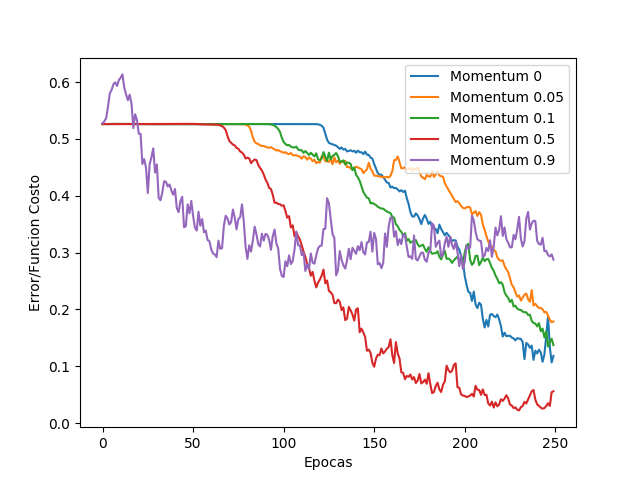
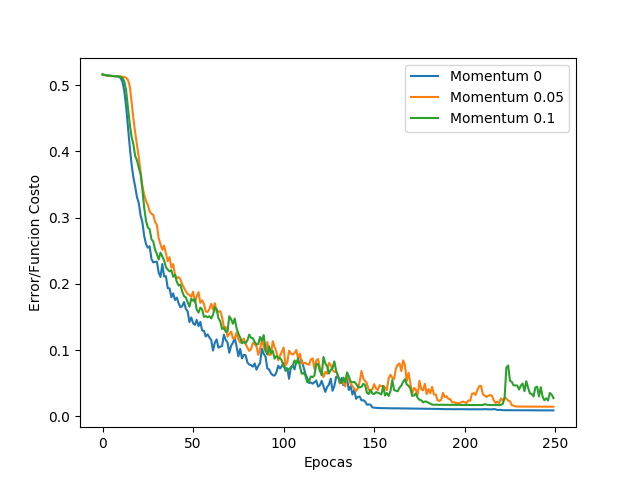
Termina de meter experimentos de eta y momentum

diff --git a/informe/resultados.tex b/informe/resultados.tex
@@ -377,13 +377,13 @@ entrenamiento estocástico.
 \centering
 \begin{subfigure}{.5\textwidth}
   \centering
-  \includegraphics[width=1\linewidth]{graficos/eta_x_momentum_promedios_entrenamiento__0.png}
+  \includegraphics[width=1\linewidth]{graficos/eta_x_momentum_promedios_entrenamiento_0_08.png}
   \caption{Evolución del error de entrenamiento con momentum variable y learning rate fijo 0.08}
   \label{fig:sub1}
 \end{subfigure}%
 \begin{subfigure}{.5\textwidth}
   \centering
-  \includegraphics[width=1\linewidth]{graficos/eta_x_momentum_promedios_validacion__0.png}
+  \includegraphics[width=1\linewidth]{graficos/eta_x_momentum_promedios_validacion_0_08.png}
   \caption{Evolución del error de validación con momentum variable y learning rate fijo 0.08}
   \label{fig:sub2}
 \end{subfigure}
@@ -393,13 +393,13 @@ entrenamiento estocástico.
 \centering
 \begin{subfigure}{.5\textwidth}
   \centering
-  \includegraphics[width=1\linewidth]{graficos/eta_x_momentum_promedios_entrenamiento__1.png}
+  \includegraphics[width=1\linewidth]{graficos/eta_x_momentum_promedios_entrenamiento_0_15.png}
   \caption{Evolución del error de entrenamiento con momentum variable y learning rate fijo 0.15}
   \label{fig:sub1}
 \end{subfigure}%
 \begin{subfigure}{.5\textwidth}
   \centering
-  \includegraphics[width=1\linewidth]{graficos/eta_x_momentum_promedios_validacion__1.png}
+  \includegraphics[width=1\linewidth]{graficos/eta_x_momentum_promedios_validacion_0_15.png}
   \caption{Evolución del error de validación con momentum variable y learning rate fijo 0.15}
   \label{fig:sub2}
 \end{subfigure}
@@ -409,13 +409,13 @@ entrenamiento estocástico.
 \centering
 \begin{subfigure}{.5\textwidth}
   \centering
-  \includegraphics[width=1\linewidth]{graficos/eta_x_momentum_promedios_entrenamiento__2.png}
+  \includegraphics[width=1\linewidth]{graficos/eta_x_momentum_promedios_entrenamiento_0_2.png}
   \caption{Evolución del error de entrenamiento con momentum variable y learning rate fijo 0.2}
   \label{fig:sub1}
 \end{subfigure}%
 \begin{subfigure}{.5\textwidth}
   \centering
-  \includegraphics[width=1\linewidth]{graficos/eta_x_momentum_promedios_validacion__2.png}
+  \includegraphics[width=1\linewidth]{graficos/eta_x_momentum_promedios_validacion_0_2.png}
   \caption{Evolución del error de validación con momentum variable y learning rate fijo 0.2}
   \label{fig:sub2}
 \end{subfigure}
@@ -424,7 +424,44 @@ entrenamiento estocástico.
 Como se puede observar, los mejores resultados siguen siendo usando un learning rate de \textbf{0.1 y de 0.05}. Más interesante todavía es que en 
 anteriores experimentos con el momentum y un learning rate de \textbf{0.05} habíamos visto que el momentum en \textbf{0} era la mejor opción. Sin embargo,
  en estos nuevos resultados se puede ver que usar momentum \textbf{0.1} es mejor que \textbf{0} tanto para el learning rate de \textbf{0.1 y de 0.05}. 
- Esto puede deberse a como se armaron los conjuntos de entrenamiento y validación.
+ Esto puede deberse a como se armaron los conjuntos de entrenamiento y validación, y para confirmarlo, volveremos a correr las pruebas para \textbf{0.1 y de 0.05}
+ y compararlas.
+
+\begin{figure}[!htbp]
+\centering
+\begin{subfigure}{.5\textwidth}
+  \centering
+  \includegraphics[width=1\linewidth]{graficos/eta_x_momentum_promedios_entrenamiento__0.png}
+  \caption{Evolución del error de entrenamiento con momentum variable y learning rate fijo 0.05 (segunda vuelta)}
+  \label{fig:sub1}
+\end{subfigure}%
+\begin{subfigure}{.5\textwidth}
+  \centering
+  \includegraphics[width=1\linewidth]{graficos/eta_x_momentum_promedios_entrenamiento__2.png}
+  \caption{Evolución del error de entrenamiento con momentum variable y learning rate fijo 0.1 (segunda vuelta)}
+  \label{fig:sub2}
+\end{subfigure}
+\end{figure}
+
+\begin{figure}[!htbp]
+\centering
+\begin{subfigure}{.5\textwidth}
+  \centering
+  \includegraphics[width=1\linewidth]{graficos/eta_x_momentum_promedios_validacion__0.png}
+  \caption{Evolución del error de validación con momentum variable y learning rate fijo 0.05 (segunda vuelta)}
+  \label{fig:sub1}
+\end{subfigure}%
+\begin{subfigure}{.5\textwidth}
+  \centering
+  \includegraphics[width=1\linewidth]{graficos/eta_x_momentum_promedios_validacion__2.png}
+  \caption{Evolución del error de validación con momentum variable y learning rate fijo 0.1 (segunda vuelta)}
+  \label{fig:sub2}
+\end{subfigure}
+\end{figure}
+
+Finalmente, confirmamos que, con estos resultados entre learning rate \textbf{0.1 y de 0.05}, la mejor opción es utilizar momentum \textbf{0}, como habíamos 
+confirmado en experimentos anteriores, y learning rate (si bien no hay grandes diferencias en el error de validación obtenido) de \textbf{0.05} ya que 
+registra el error más bajo tanto para entrenamiento como para validación.
 
 \subsubsection{Performance de la red, variando técnicas de entrenamiento (estocástico, batch y mini batch) y de inicialización de pesos}
 

diff --git a/momentum_y_learning_rate_ej1.py b/momentum_y_learning_rate_ej1.py
@@ -26,8 +26,8 @@ else:
 
 rondas = 5
 capas = [10, 10]
-momentums = [0, 0.05, 0.1, 0.5, 0.9]
-etas = [0.1, 0.05, 0.01, 0.005, 0.001]
+momentums = [0, 0.05, 0.1]
+etas = [0.05, 0.08, 0.1, 0.12]
 
 for q, eta in enumerate(etas):
     datos_graficos_avg = [[] for i in range(len(momentums))]
@@ -97,7 +97,7 @@ for q, eta in enumerate(etas):
     plt.xlabel('Epocas')
     plt.ylabel('Error/Funcion Costo')
     plt.legend(loc=1)
-    plt.savefig('informe/graficos/eta_x_momentum_promedios_entrenamiento_'+str(q)+'.png')
+    plt.savefig('informe/graficos/eta_x_momentum_promedios_entrenamiento__'+str(q)+'.png')
     plt.clf()
 
     # Para validaciones
@@ -107,5 +107,5 @@ for q, eta in enumerate(etas):
     plt.xlabel('Epocas')
     plt.ylabel('Error/Funcion Costo')
     plt.legend(loc=1)
-    plt.savefig('informe/graficos/eta_x_momentum_promedios_validacion_'+str(q)+'.png')
+    plt.savefig('informe/graficos/eta_x_momentum_promedios_validacion__'+str(q)+'.png')
     plt.clf()
